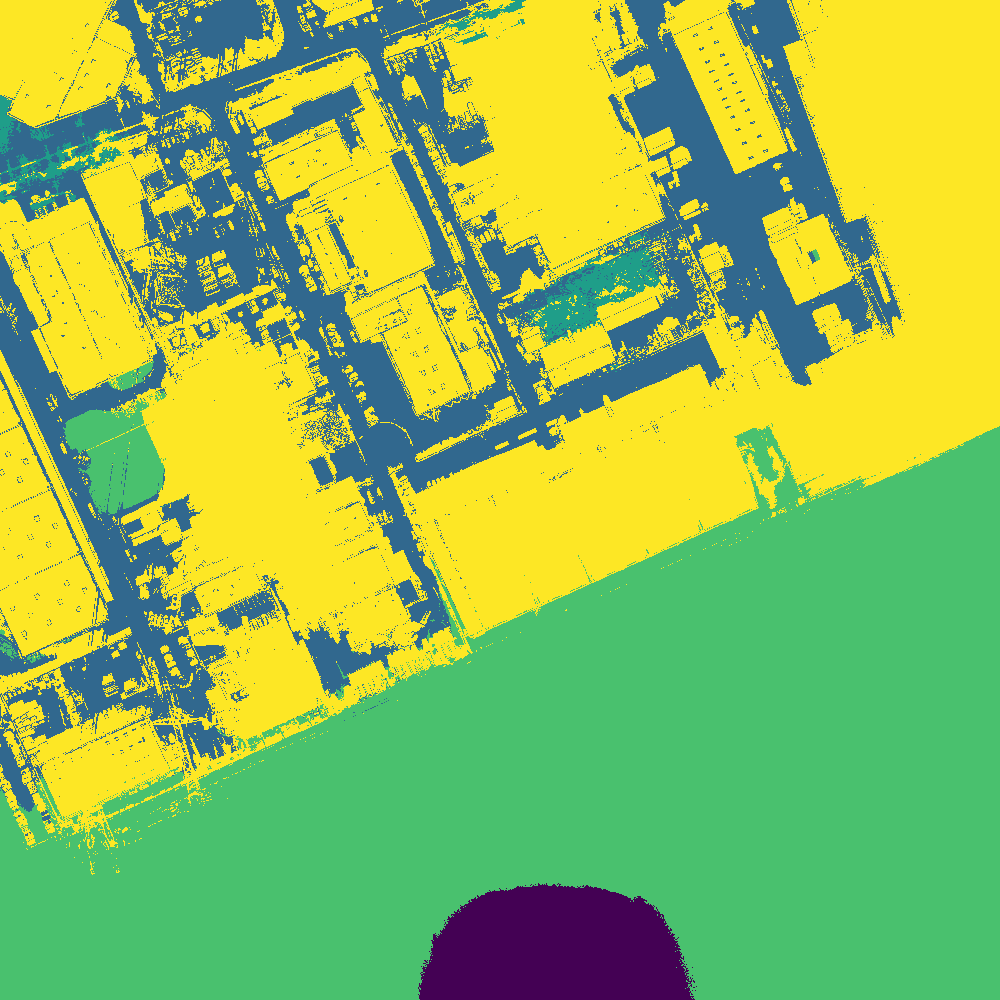
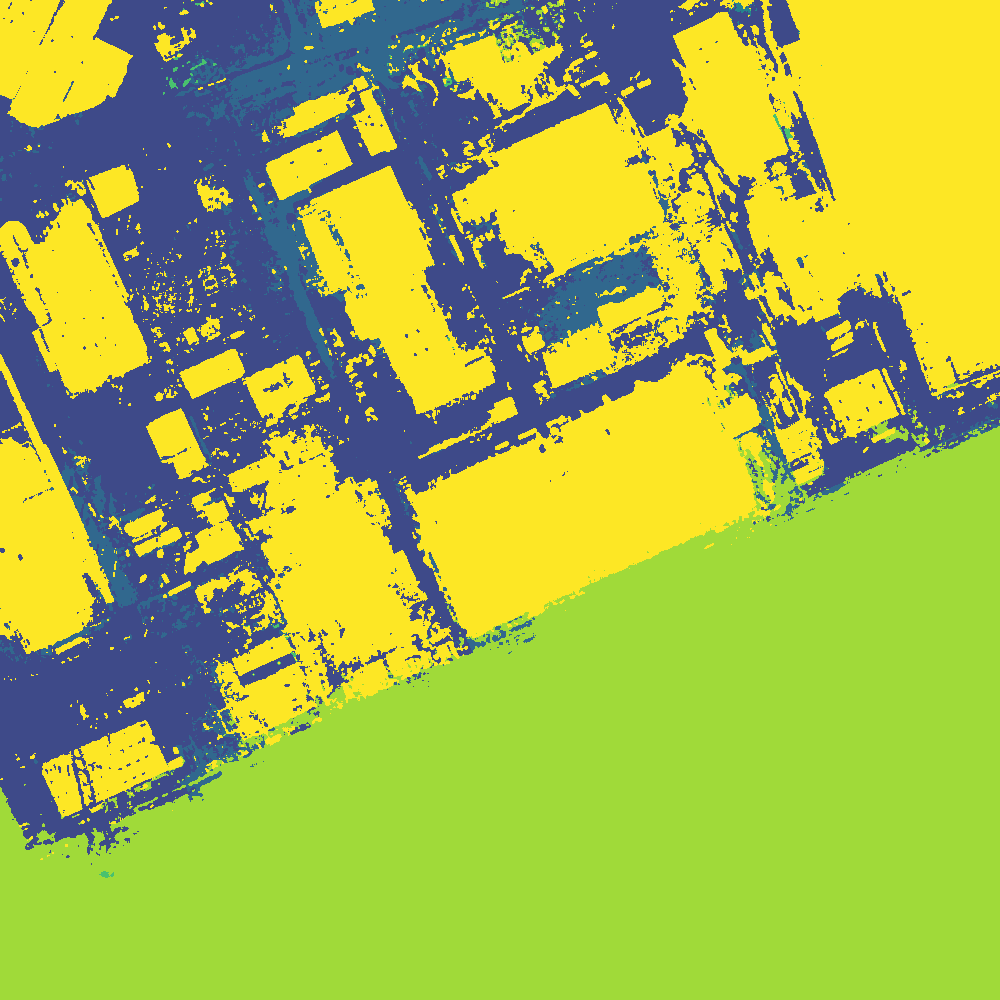
emmm

diff --git a/bench/vis/3/1.html b/bench/vis/3/1.html
@@ -31,7 +31,7 @@
 </style>
 <ul>
     <li>Origin</li>
-    <li>SatOV(SatOV)</li>
+    <li>SatOV(also ours)</li>
 
 </ul>
 <ul>
@@ -39,8 +39,8 @@
     <li><img src="./img_ours.png" alt=""></li>
 </ul>
 <ul>
-    <li>SegEarth-OV(simFeatUp)</li>
-    <li>SatOV(Gaussian Splatting)</li>
+    <li>SegEarth-OV</li>
+    <li>DinoSplat-OV(ours)</li>
 
 </ul>
 

diff --git a/dino_splat_ov/splat.py b/dino_splat_ov/splat.py
@@ -59,8 +59,7 @@ model = model.to(device).eval()
 # 类别分组（可自定义）
 # =========================
 class_groups = [
-    ["bareland", "barren"],
-    ["pavement"],
+    ["pavement","bareland", "barren"],
     ["road"],
     ["forest", "tree"],
     ["river", "water"],
@@ -83,8 +82,8 @@ num_classes = len(class_groups)
 # =========================
 # 滑动窗口参数
 # =========================
-win_size = 334
-stride = 167
+win_size = 256
+stride = 128
 
 def pad_to_multiple(img, win_size, stride):
     h, w = img.shape[:2]
@@ -254,7 +253,8 @@ def predict_image(image_path, output_path=None, show=False):
 
     # 彩色掩膜
     preset_palette = [
-        (72, 40, 120), (62, 74, 137), (49, 104, 142), (38, 130, 142),
+        # (72, 40, 120),
+          (62, 74, 137), (49, 104, 142), (38, 130, 142),
         (31, 158, 137), (73, 193, 110), (160, 218, 57), (253, 231, 37),
     ]
     preset_palette = np.array(preset_palette)

diff --git a/eval.py b/eval.py
@@ -220,6 +220,6 @@ def evaluate_folder(pred_folder, gt_folder):
 # 入口
 # =====================================================
 if __name__ == "__main__":
-    PRED_FOLDER = "data/DDOA/dino"
-    GT_FOLDER = "data/DDOA/gt"
+    PRED_FOLDER = "data/LoveDA/dino"
+    GT_FOLDER = "data/LoveDA/gt"
     result = evaluate_folder(PRED_FOLDER, GT_FOLDER)
